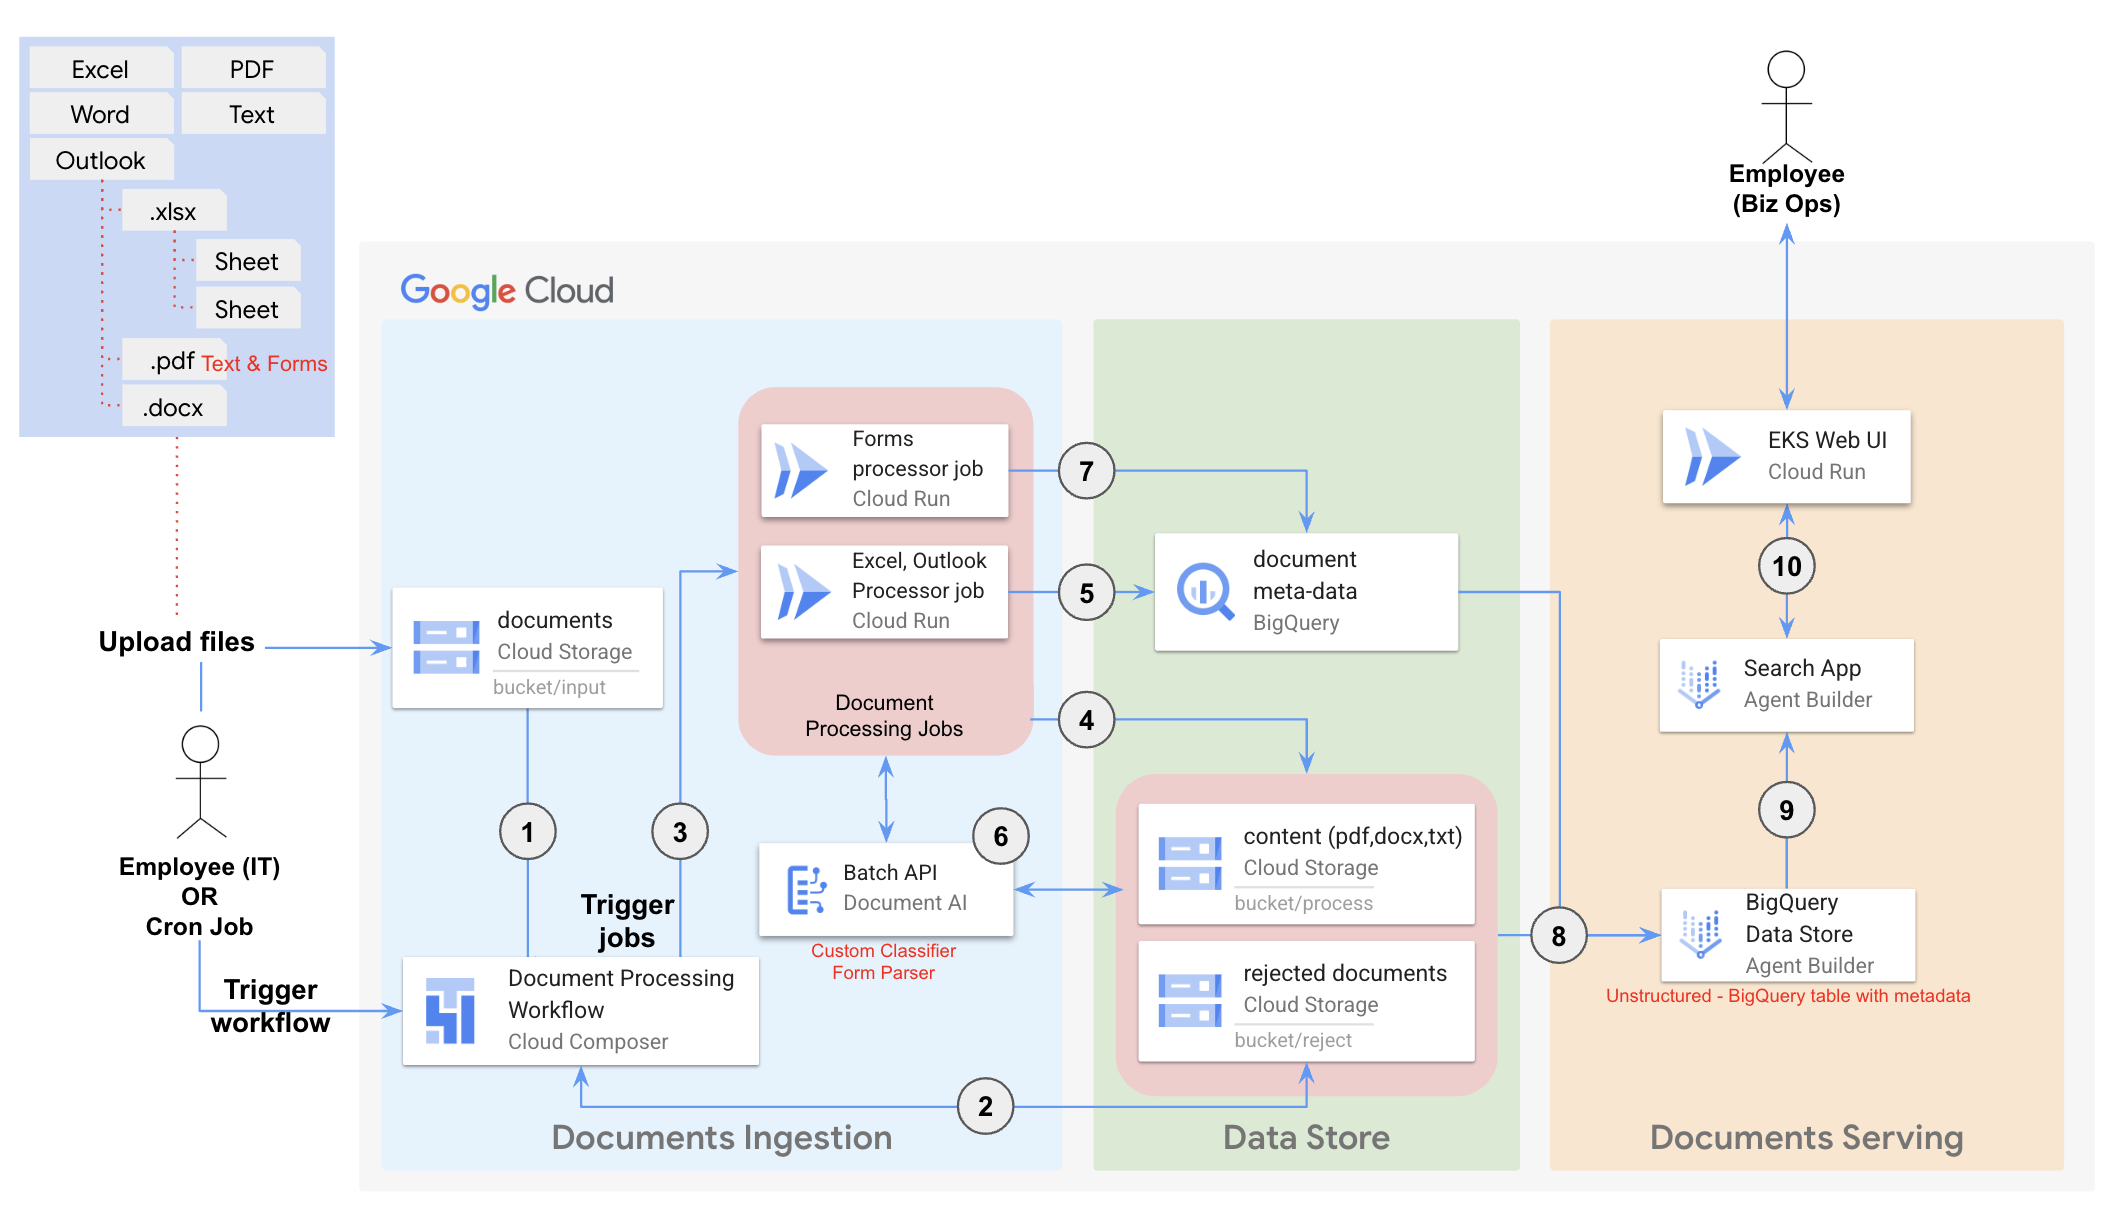
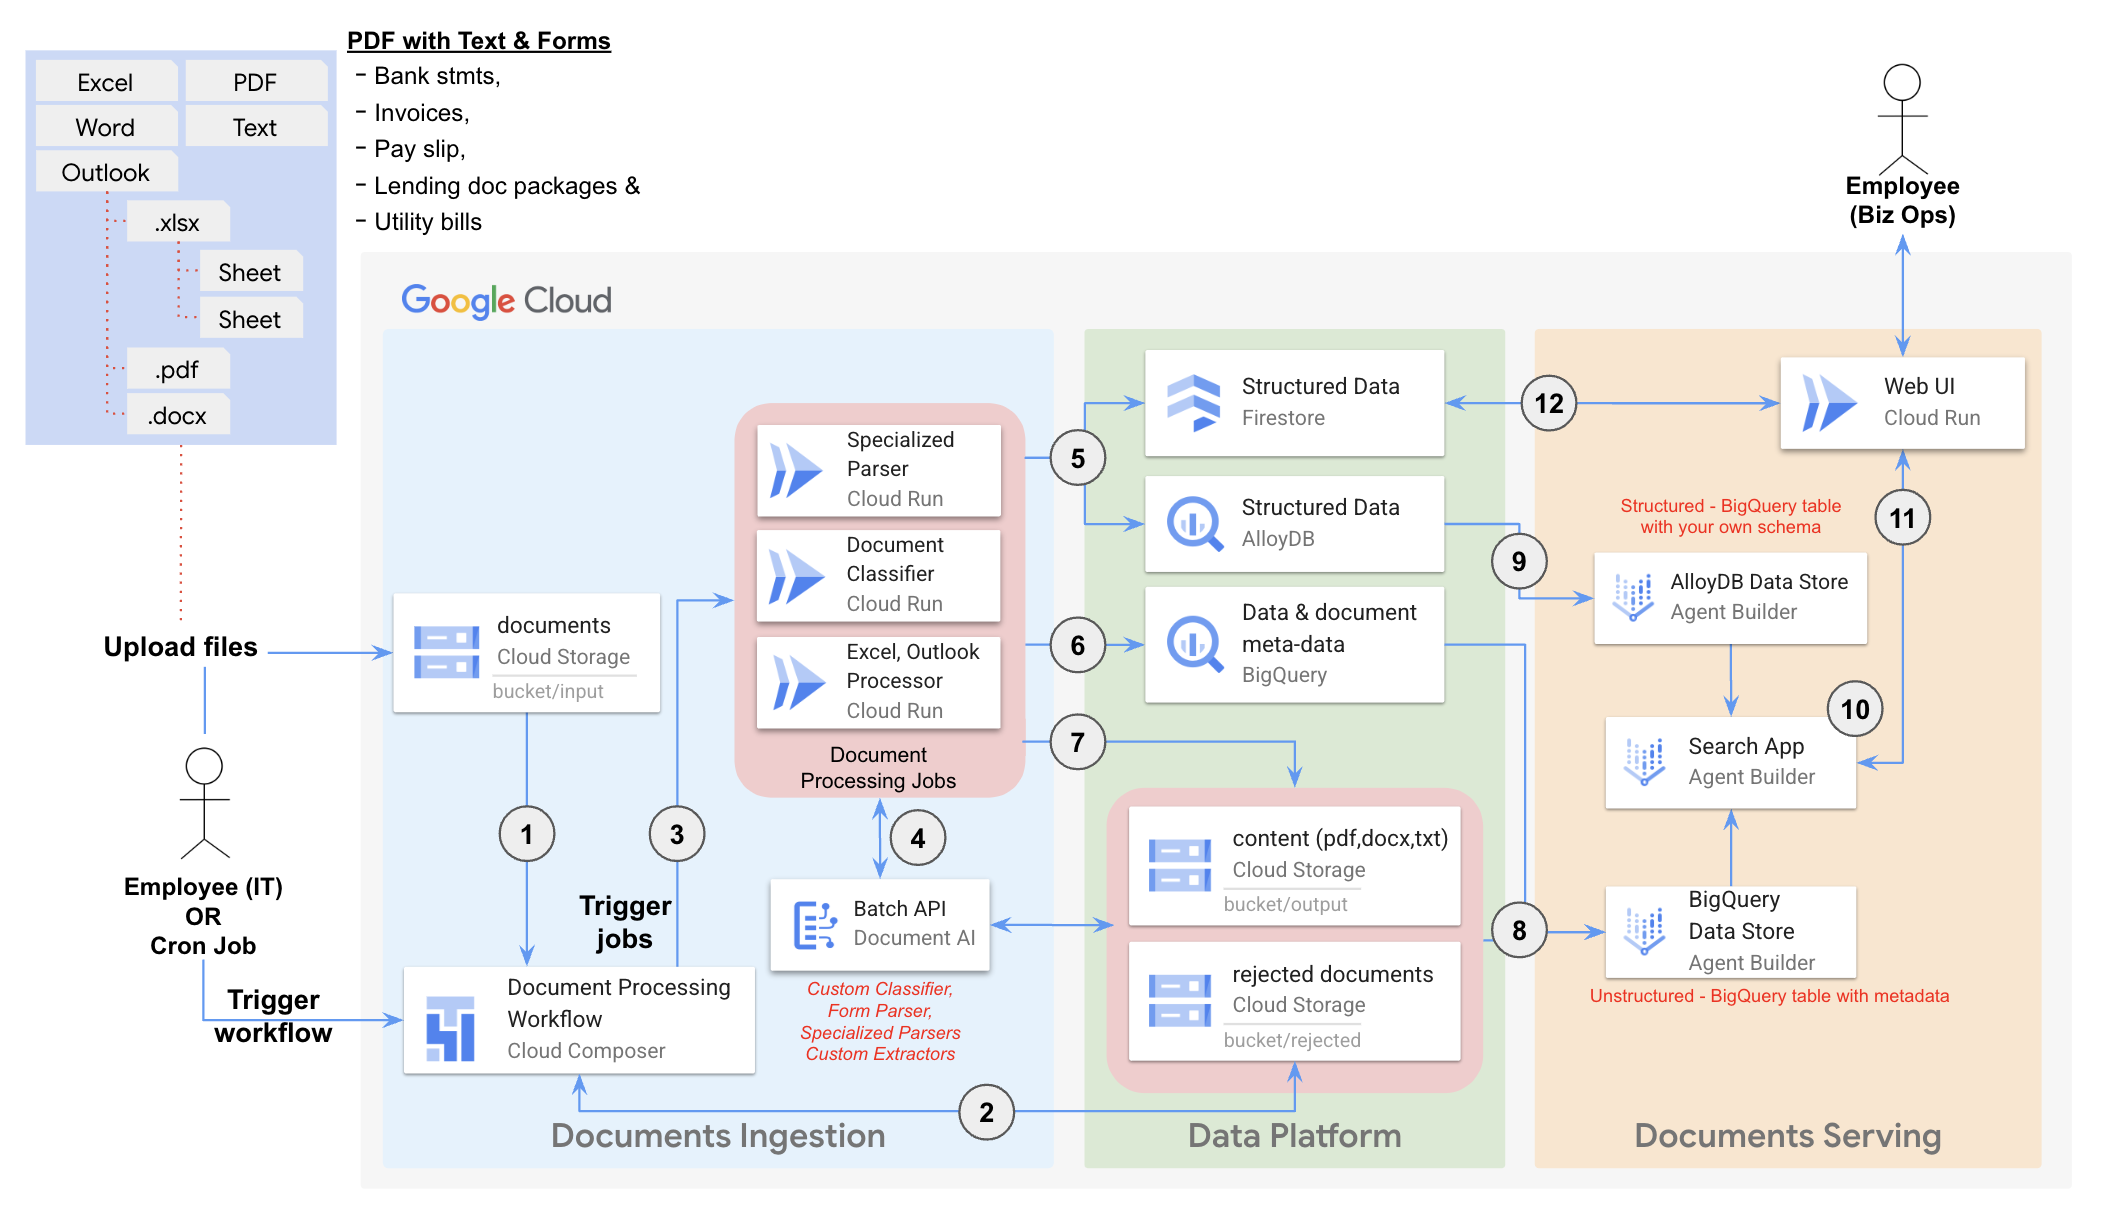
Updated README.md and DATAFLOW.md

diff --git a/README.md b/README.md
@@ -52,9 +52,24 @@ To deploy this solution, perform the follow steps:
     - Service Account Admin
     - Service Usage Admin
 
-1.  To deploy this repository using an online terminal with software and authentication preconfigured, use [Cloud Shell](https://shell.cloud.google.com/?show=ide%2Cterminal).
+1. Create, train and deploy a custom document classifier  
 
-    Alternatively, to deploy this repository using a local terminal:
+   To classify documents, you must [create a custom document classifier in the Google Cloud console](https://cloud.google.com/document-ai/docs/custom-classifier).
+
+   - You can use the [test documents and forms](sample-deployments/composer-orchestrated-process/documents-for-testing/forms-to-train-docai) to train and evaluate the classifier in your GCP environment.
+
+   - We have created an annotated dataset to expedite the training process. Please contact your Google account representative to get access to the annotated dataset.
+
+   - The output labels of the classifier **MUST** match the configured labels in the composer DAG configuration `doc-ai-processors`. Out of the box, the solution supports `form` and `invoice` labels. Any other label would cause the flow to treat the document as a generic document and will process it without extracting structured data from the document.
+
+   - After training the custom classifier, set the classifier ID to composer as a default argument. Add the following variable to your Terraform variables file and run `terraform apply` again.
+    ```bash
+    custom_classifier_id = projects/<CLASSIFIER_PROJECT>/locations/<CLASSIFIER_LOCATION>/processors/<CLASSIFIER_ID>
+    ```
+
+1.  To deploy the solution from this repository using an online terminal with software and authentication preconfigured, use [Cloud Shell](https://shell.cloud.google.com/?show=ide%2Cterminal).
+
+    Alternatively, to deploy this repository using a local terminal on MacBook:
 
     1. [install](https://cloud.google.com/sdk/docs/install) and [initialize](https://cloud.google.com/sdk/docs/initializing) the gcloud CLI
     1. [install Terraform](https://developer.hashicorp.com/terraform/tutorials/gcp-get-started/install-cli)
@@ -104,12 +119,6 @@ To deploy this solution, perform the follow steps:
 
     The script also creates a pop-up window "Sign in with Google" asking you to authenticate the Google Auth Library. Follow the directions to complete the Authentication flow with your user account, which will then configure Application Default Credentials using the impersonated service account credentials to be used by terraform.
 
-1.  Initialize Terraform:
-
-    ```sh
-    terraform init
-    ```
-
 1.  Create a terraform.tfvars file with the following variables:
 
     ```sh
@@ -120,15 +129,19 @@ To deploy this solution, perform the follow steps:
     webui_domains = # Your domain name for Web UI access (e.g., ["webui.example.com"])
     iap_access_domains = # List of domains granted for IAP access to the Web UI (e.g., ["domain:example.com"])
     ```
+1.  (Optional) By default, this repository creates a new VPC network in the same project as other resources. You can use an existing VPC network instead by configuring optional terraform variables.
 
-    1.  (Optional) By default, this repository creates a new VPC network in the same project as other resources. You can use an existing VPC network instead by configuring optional terraform variables.
+    ```sh
+    create_vpc_network = false # default is true
+    vpc_name = # The name of your existing vpc, (e.g., "myvpc")
+    ```
+    If using an existing VPC, you should validate that your existing vpc has firewall policies and DNS zones that enable the traffic pathways defined in [vpc.tf](enterprise-knowledge-solution/components/common-infra/terraform/vpc.tf), and grant Compute Network User on your shared VPC to the deployer service account.
 
-        ```sh
-        create_vpc_network = false # default is true
-        vpc_name = # The name of your existing vpc, (e.g., "myvpc")
-        ```
+1.  Initialize Terraform:
 
-        If using an existing VPC, you should validate that your existing vpc has firewall policies and DNS zones that enable the traffic pathways defined in [vpc.tf](enterprise-knowledge-solution/components/common-infra/terraform/vpc.tf), and grant Compute Network User on your shared VPC to the deployer service account.
+    ```sh
+    terraform init
+    ```
 
 1.  Review the proposed changes, and apply them:
 
@@ -191,7 +204,15 @@ After successfully completing the steps in thge previous section Deployment Guid
      - TXT
      - ZIP containing any of above supported file types
 
-### Run the document processing Workflow
+### Trigger the document processing Workflow
+
+1. Execute the following bash script to trigger the document processing workflow:
+
+   ```sh
+   scripts/trigger_workflow.sh
+   ```
+
+### Run the document processing Workflow using Composer/Airflow UI
 
 1. Get the Cloud Composer Airflow URI:
 
@@ -266,26 +287,11 @@ For more information on the Web UI component, please refer to its [Readme](./com
 1. Execute the bash script to delete a single document:
 
    ```sh
-   scripts/delete_doc.sh -d <DOC_ID> -u <DOC_URI> -t <BQ_TABLE> -l <LOCATION> [-p <PROJECT_ID>]
+   scripts/delete_doc.sh [-p <PROJECT_ID>] -l <LOCATION> -u <DOC_URI> -t <BQ_TABLE> -d <DOC_ID> 
    ```
 
 1. Execute the bash script to delete a batch of documents:
 
    ```sh
-   scripts/delete_doc.sh -b <BATCH_ID> -l <LOCATION> [-p <PROJECT_ID>]
+   scripts/delete_doc.sh [-p <PROJECT_ID>] -l <LOCATION> -b <BATCH_ID>
    ```
-
-### Customizing the document classifier
-
-To classify documents, you must [create a custom document classifier in the Google Cloud console](https://cloud.google.com/document-ai/docs/custom-classifier).
-
-- You can use the [test documents and forms](sample-deployments/composer-orchestrated-process/documents-for-testing/forms-to-train-docai) to train and evaluate the classifier in your GCP environment.
-
-- We have created an annotated dataset to expedite the training process. Please contact your Google account representative to get access to the annotated dataset.
-
-- The output labels of the classifier **MUST** match the configured labels in the composer DAG configuration `doc-ai-processors`. Out of the box, the solution supports `form` and `invoice` labels. Any other label would cause the flow to treat the document as a generic document and will process it without extracting structured data from the document.
-
-- After training the custom classifier, set the classifier ID to composer as a default argument. Add the following variable to your Terraform variables file and run `terraform apply` again.
-  ```bash
-  custom_classifier_id = projects/<CLASSIFIER_PROJECT>/locations/<CLASSIFIER_LOCATION>/processors/<CLASSIFIER_ID>
-  ```

diff --git a/DATAFLOW.md b/DATAFLOW.md
@@ -1,28 +1,27 @@
 # Enterprise Knowledge Solution (EKS) Dataflow
 
 1. **Upload documents and trigger document processing workflow**
-   An employee (IT) manually uploads various document types (Excel, PDF, Word, Text, Outlook, .xlsx, .pdf, .docx) or a scheduled Cron Job triggers the upload. The uploaded files are stored in a designated "input" bucket within Google Cloud Storage.
-
-   The upload to the "input" bucket triggers a Document Processing Workflow managed by Cloud Composer.
-
+   An employee (IT) manually uploads various document types (Excel, PDF, Word, Text, Outlook) or a scheduled Cron Job triggers the upload. The uploaded files are stored in a designated "input" bucket within Google Cloud Storage.
+   
+   The upload to the "input" bucket triggers a Document Processing Workflow managed by Cloud Composer.  
 1. **Validate the documents:**
    Documents that fail validation are redirected to a separate "reject" bucket within Google Cloud Storage for further review and handling.
 1. **Initiate Processing Jobs:**
    The workflow initiates specific processing jobs based on the document type:
-   `PDF Classifier (Cloud Run -> Doc AI Custom Classifier):` Identify PDF documents that contain forms.
-   `Forms Processor (Cloud Run -> Doc AI Form Parser):` Processes form documents(PDF).
-   `Excel, Outlook Processor (Cloud Run):` Processes Excel and Outlook files.
-1. **Extract and store content:**
-   Each processor extracts relevant content from the documents. The extracted content (PDF, docx, txt) is stored in a “process” bucket within Google Cloud Storage.
-1. **Create and store document metadata for Excel and Outlook documents:**
-   The extracted document metadata is stored in a BigQuery table.
+   - `Document Classifier (Cloud Run -> Doc AI Custom Classifier):`  Identify PDF document type (Any form, bank statements, invoices, pay slip, lending doc and utility bills)  
+   - `Specialized Parser (Cloud Run -> Doc AI Form and Specialied Parser):` Processes forms and documents (Any form, bank statements, invoices, pay slip, lending doc and utility bills)  
+   - `Excel, Outlook Processor (Cloud Run):` Processes Excel and Outlook files.  
 1. **Utilize Document AI Batch API:**
-   The Document Processing Workflow leverages the Document AI Batch API for asynchronous processing of large document volumes.
-1. **Create and store document metadata for forms in PDF documents:**
-   The extracted document metadata is stored in a BigQuery table.
+   The Specialized Parser Job leverages Document AI Batch API for asynchronous processing of large document volumes.
+1. **Extract and store data elements:**
+   The Specialized Parser Job uses Document AI Batch API to extract data elements from the documents and stores the extracted data elements in AlloyDB, BigQuery and Firestore.  
+1. **Create and store document metadata in BigQuery for Search and Summarization:**
+   Document processsing jobs creates and stores document metadata in a BigQuery table. Document metadata is required by Agent Builder for indexing the documents. Document metadata contains the uri to the documents stored in the "process" bucket in Google Cloud Storage.
+1. **Create and store processed documents in Cloud Storage Bucket for Search and Summarization:**
+   The processed documents and document metadata files are also stored in the "process" bucket in Google Cloud Storage for search and summarization.
 1. **Data Serving:**
    The processed and stored content from the "process" bucket is imported and indexed in Agent Builder’s BigQuery Data Store.
 1. **Powering Search Applications:**
    The extracted data stored in Agent Builder’s BigQuery Data Store is used to power search applications built with Vertex AI Agent Builder.
 1. **Business User Access:**
-   Business Operations (Biz Ops) employees can access and interact with the processed data through a dedicated Web UI deployed in Cloud Run. This UI leverages the search and summarization capabilities of the Vertex AI Agent Builder.
+   Business Operations (Biz Ops) employees can access and interact with the processed data through a dedicated Web UI deployed in Cloud Run. This UI leverages search and summarization capabilities of the Vertex AI Agent Builder.
